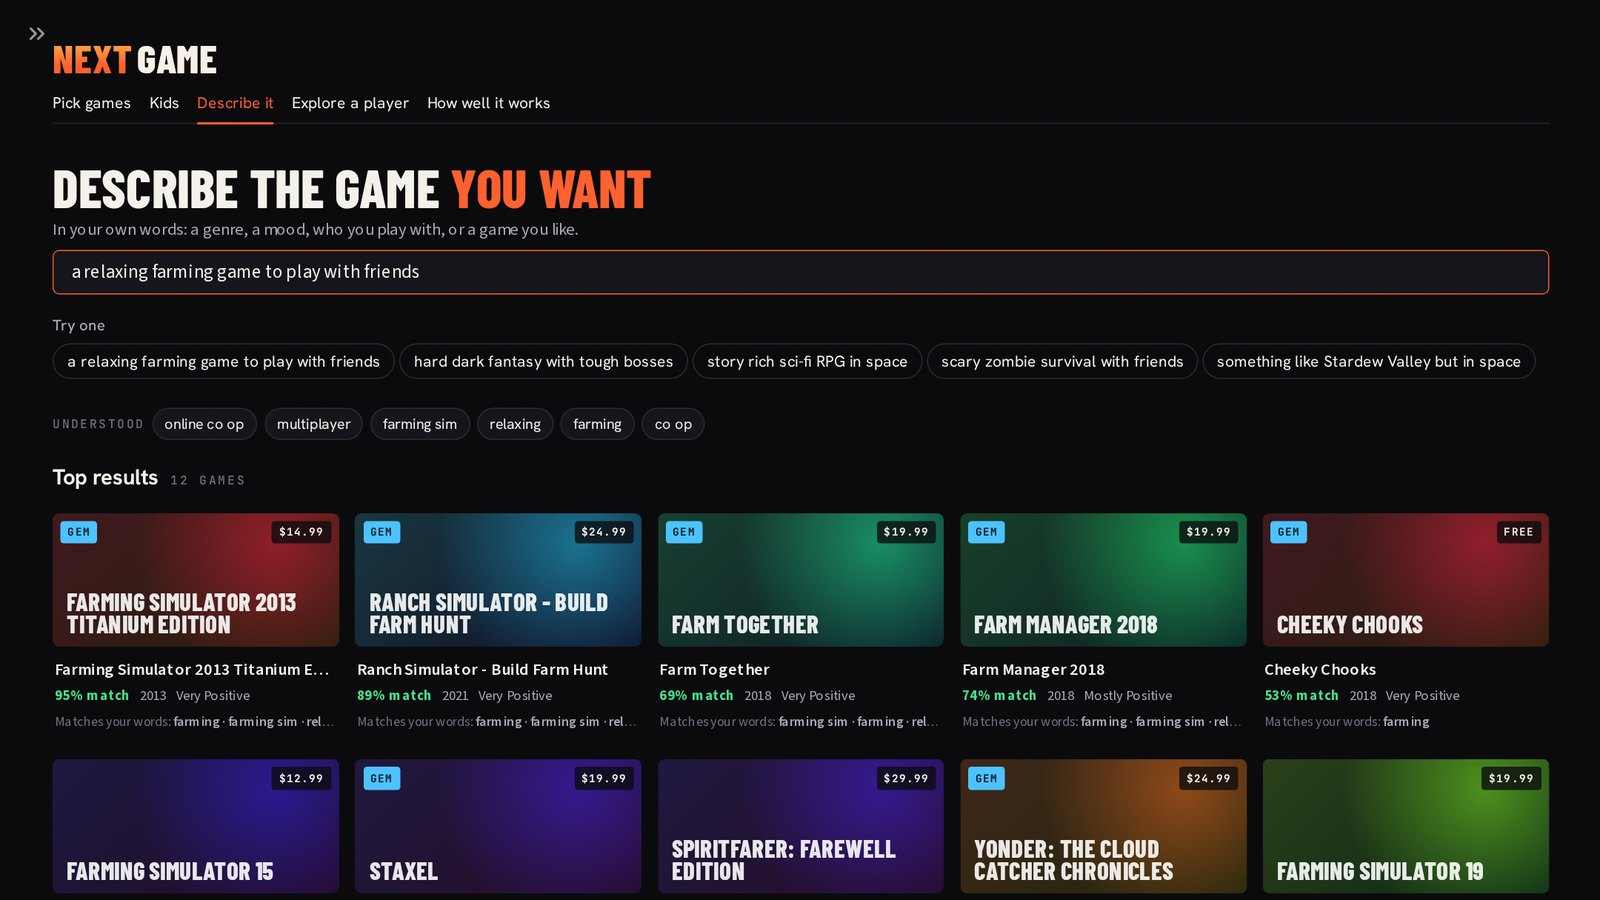
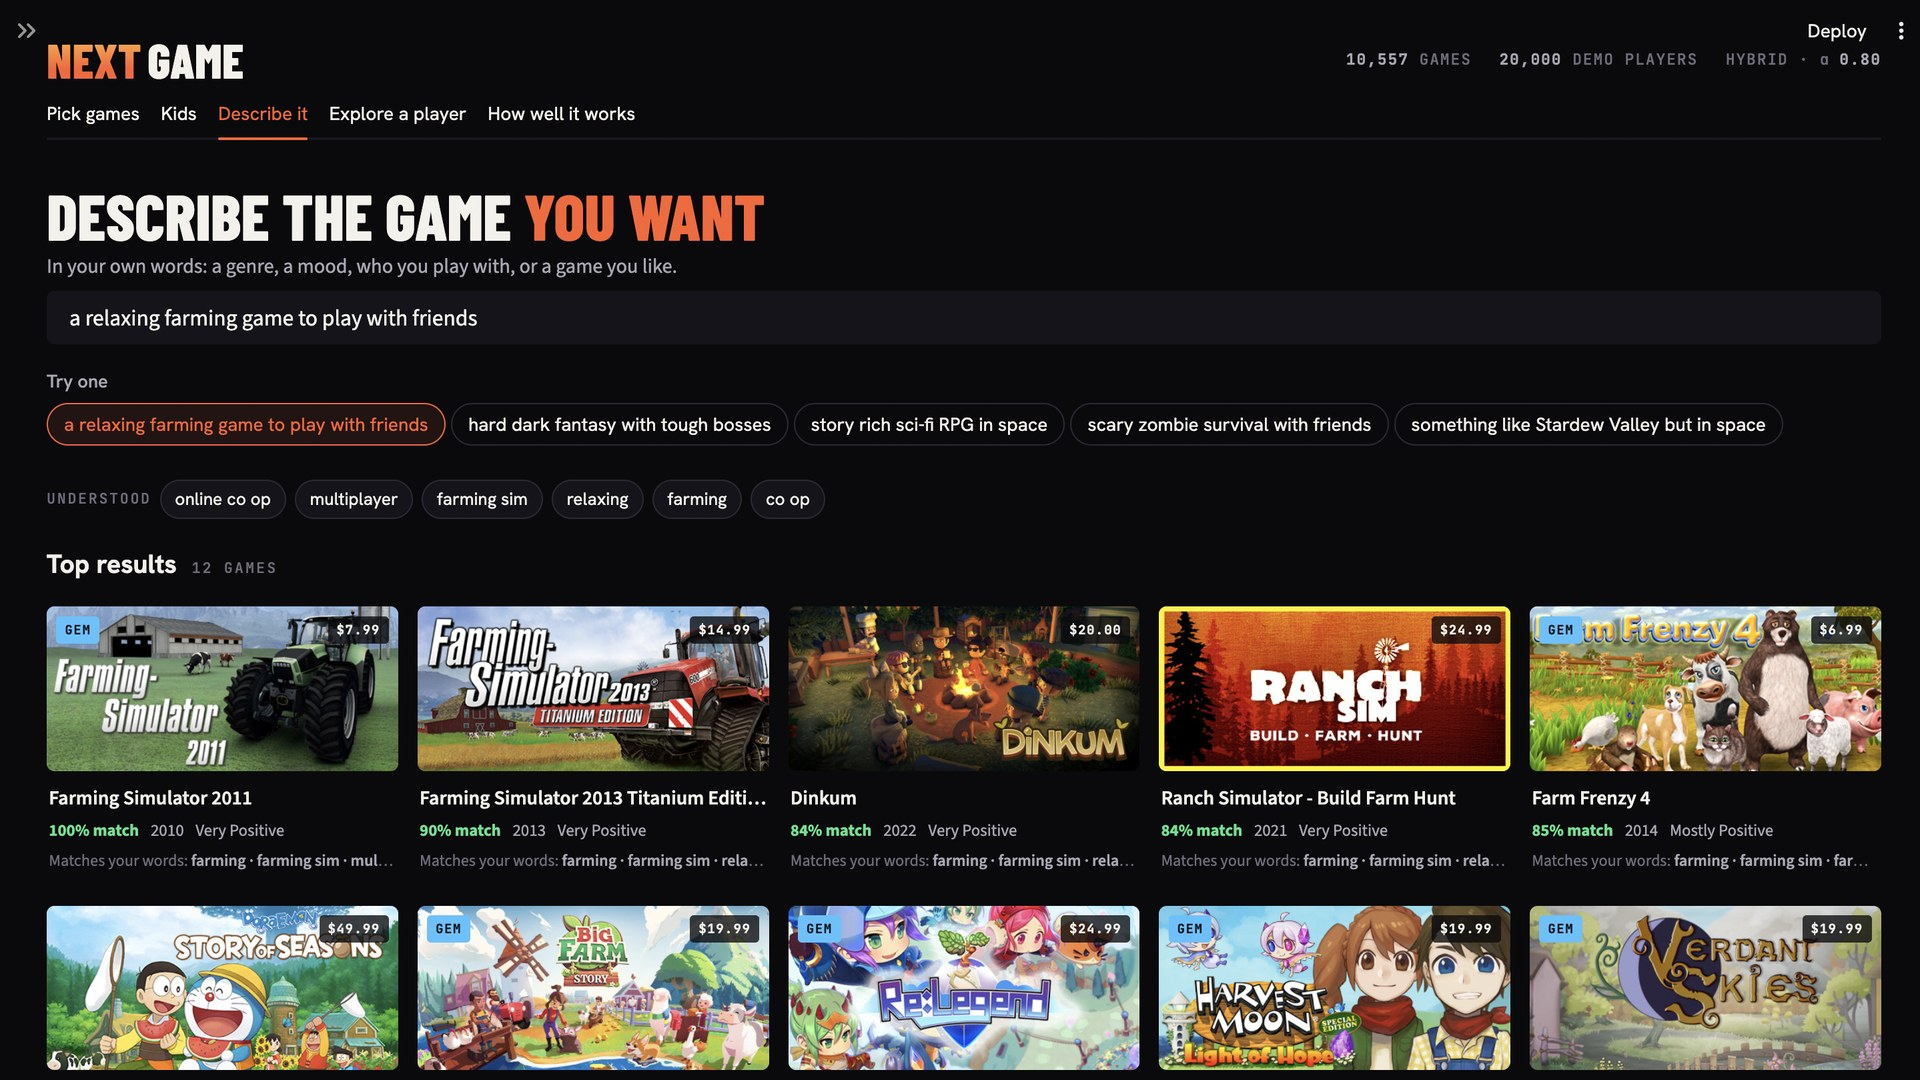
Use real app screenshots

diff --git a/README.md b/README.md
@@ -77,8 +77,6 @@ On Windows you can also double-click `start_app.bat`. The app opens at http://lo
 |---|---|
 | ![Kids section](docs/screenshots/app_kids.jpg) | ![Rows](docs/screenshots/app_rows.jpg) |
 
-*Screenshots were taken offline with a test model, so game art shows as coloured title posters.*
-
 ## Project structure
 
 ```
